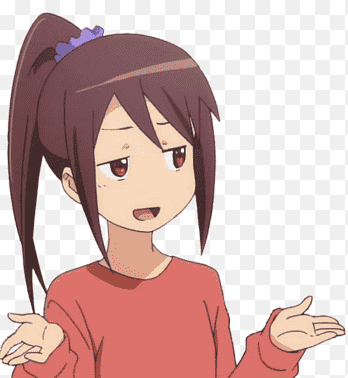
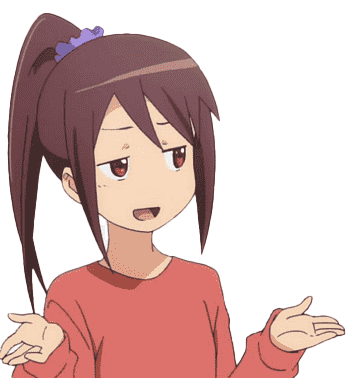
feat: Added random face stuff

diff --git a/client/src/pages/roast/[id].tsx b/client/src/pages/roast/[id].tsx
@@ -17,6 +17,7 @@ export default function Home() {
   const [threadID, setThreadID] = React.useState<string>("");
   const [name, setName] = React.useState<string>("");
   const [leftRight, setLeftRight] = React.useState(false);
+  const [faceID, setFaceID] = React.useState(1);
 
   const { data, refetch, isLoading, isRefetching } = useQuery<RoastData>({
     queryKey: ["roast"],
@@ -43,11 +44,6 @@ export default function Home() {
     setName(nameFromQuery);
   }, [router]);
 
-  React.useEffect(() => {
-    console.log(threadID);
-    console.log(name);
-  }, [threadID, name]);
-
   return (
     <>
       <Head>
@@ -57,11 +53,11 @@ export default function Home() {
       </Head>
       <main className="flex min-h-screen flex-col items-center justify-center bg-gradient-to-b from-[#2e026d] to-[#15162c] pb-8">
         <EmojiRain
-          emojis={["🤡", "🤡", "🤡", "🤡", "🤡", "🤡", "🤡", "🤡", "🤡", "🤡"]}
+          emojis={["🤡", "🦧", "🤡", "🤣", "💩", "🦧", "🤯", "💩", "🤣", "🤡"]}
         />
         {leftRight ? (
           <div className="container flex flex-row items-center justify-center gap-12 px-4 py-16 ">
-            <Image src={"/face1.png"} width={400} height={600} alt="" />
+            <Image src={`/face${faceID}.png`} width={400} height={600} alt="" />
             <div className="speech-bubble relative rounded-lg border-2 p-6 text-4xl text-gray-400">
               {isLoading || isRefetching
                 ? "I'm thinking how to roast you..."
@@ -77,7 +73,7 @@ export default function Home() {
             </div>
             <Image
               className="scale-x-[-1]"
-              src={"/face1.png"}
+              src={`/face${faceID}.png`}
               width={400}
               height={600}
               alt=""
@@ -88,8 +84,8 @@ export default function Home() {
           className="bg-transparent p-9 text-center text-3xl text-gray-400 hover:bg-gray-700 hover:bg-opacity-35 hover:text-gray-400"
           variant={"outline"}
           onClick={() => {
-            console.log("refetch");
             setLeftRight((prev) => !prev);
+            setFaceID(Math.floor(Math.random() * 7 + 1));
             refetch();
           }}
         >
